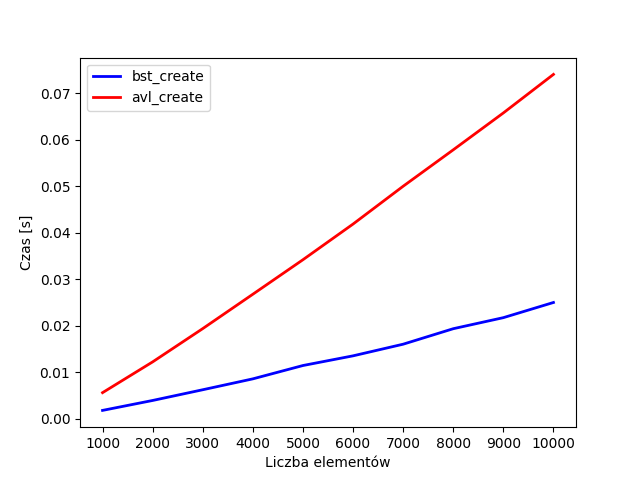
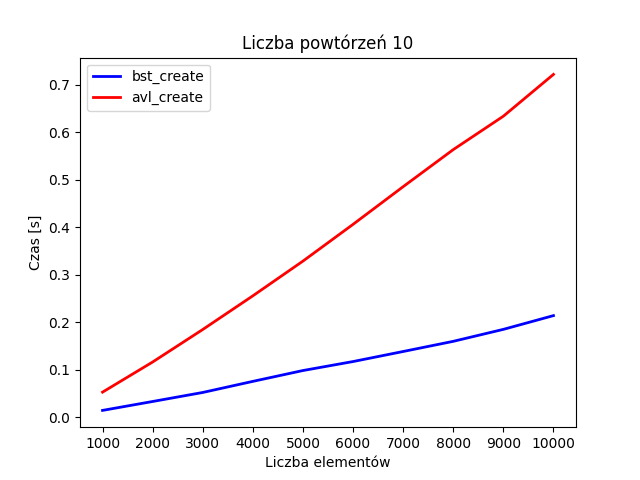
Fixed problems with deletion of elements not in the tree

diff --git a/lab3/avl_bst_benchmark.py b/lab3/avl_bst_benchmark.py
@@ -1,5 +1,3 @@
-from bst_tree import BST
-from avl_tree import AVL
 import sys
 import random
 import timeit
@@ -15,7 +13,7 @@ def random_list(number):
     return the_list
 
 
-def get_times():
+def get_times(test_number):
     results = {'bst_create': [], 'bst_search': [], 'bst_delete': [], 'avl_create': [], 'avl_search': [], 'avl_delete': []}
     the_list = random_list(10000)
     job_not_done = True
@@ -58,12 +56,12 @@ for value in the_list[0:reps]:
 for value in the_list[0:reps]:
     tree.delete_node(value)
 """
-        results['bst_create'].append(timeit.timeit("tree = BST(the_list[0:reps])", setup=setup_creation, number=1))
-        results['avl_create'].append(timeit.timeit("tree = AVL(the_list[0:reps])", setup=setup_creation, number=1))
-        results['bst_search'].append(timeit.timeit(execute_bst_search, setup=setup_bst, number=1))
-        results['avl_search'].append(timeit.timeit(execute_avl_search, setup=setup_avl, number=1))
-        results['bst_delete'].append(timeit.timeit(execute_bst_delete, setup=setup_bst, number=1))
-        results['avl_delete'].append(timeit.timeit(execute_avl_delete, setup=setup_avl, number=1))
+        results['bst_create'].append(timeit.timeit("tree = BST(the_list[0:reps])", setup=setup_creation, number=test_number))
+        results['avl_create'].append(timeit.timeit("tree = AVL(the_list[0:reps])", setup=setup_creation, number=test_number))
+        results['bst_search'].append(timeit.timeit(execute_bst_search, setup=setup_bst, number=test_number))
+        results['avl_search'].append(timeit.timeit(execute_avl_search, setup=setup_avl, number=test_number))
+        results['bst_delete'].append(sum(timeit.repeat(execute_bst_delete, setup=setup_bst, repeat=test_number, number=1)))
+        results['avl_delete'].append(sum(timeit.repeat(execute_avl_delete, setup=setup_avl, repeat=test_number, number=1)))
         if repetitions >= 10000:
             job_not_done = False
         repetitions += 1000
@@ -78,7 +76,8 @@ def plot_data(x_axis, y_axis, x_label="", y_label="", col="b-"):
 
 
 if __name__ == "__main__":
-    results = get_times()
+    test_number = 10
+    results = get_times(test_number)
     creation = ["bst_create", "avl_create"]
     searching = ["bst_search", "avl_search"]
     deletion = ["bst_delete", "avl_delete"]
@@ -93,6 +92,7 @@ if __name__ == "__main__":
             x_label = "Liczba elementów"
             y_label = "Czas [s]"
             plot_data(x_axis, y_axis, x_label, y_label, col)
+        pyplot.title(f"Liczba powtórzeń {test_number}")
         pyplot.legend(test_category)
         pyplot.savefig("lab3/" + test_category[0][-6:] + ".png")
         pyplot.clf()

diff --git a/lab3/avl_tree.py b/lab3/avl_tree.py
@@ -85,6 +85,8 @@ class AVL():
         node.balance = r_height - l_height
 
     def delete_node(self, number, node="root"):
+        if self.root is None:
+            return
         if node == "root":
             node = self.root
         if self.root.left_child is None and self.root.right_child is None:
@@ -119,10 +121,8 @@ class AVL():
             if node.right_child.right_child is not None:
                 r_height = node.right_child.right_child.height
             if r_height >= l_height:
-                # print("RR")
                 node = self.rotate_left(node)
             else:
-                # print("RL")
                 node.right_child = self.rotate_right(node.right_child)
                 node = self.rotate_left(node)
         if node.balance < -1:
@@ -133,11 +133,9 @@ class AVL():
             if node.left_child.right_child is not None:
                 r_height = node.left_child.right_child.height
             if r_height >= l_height:
-                # print("LR")
                 node.left_child = self.rotate_left(node.left_child)
                 node = self.rotate_right(node)
             else:
-                # print("LL")
                 node = self.rotate_right(node)
         return node
 
@@ -161,12 +159,8 @@ class AVL():
         additional_string1 = '>'
         additional_string1 *= recurence_depth
         if node.right_child is not None:
-            
             returning_string = returning_string + self.stringify(node.right_child, recurence_depth+1)
         returning_string = returning_string + additional_string1 + str(node.value) + '\n'
         if node.left_child is not None:
             returning_string = returning_string + self.stringify(node.left_child, recurence_depth+1)
         return returning_string
-
-tree = AVL([9,6,4,1,2,8,7,3,5,11,12,19,15,13,16,17,18,14,10])
-print(tree)

diff --git a/lab3/bst_tree.py b/lab3/bst_tree.py
@@ -32,15 +32,13 @@ class BST:  # uses first number from numbers as root
         return current_node
 
     def delete_node(self, number):
+        if self.root is None:
+            return
         node_to_delete = self.search(number)
         if self.root.left_child is None and self.root.right_child is None:
             self.root = None
             return
-        try:
-            root_changed = node_to_delete.delete()
-        except Exception:
-            print(self)
-            print(f'DELETED: {number}\n')
+        root_changed = node_to_delete.delete()
         if root_changed:
             if root_changed.parent is None:
                 self.root = root_changed
